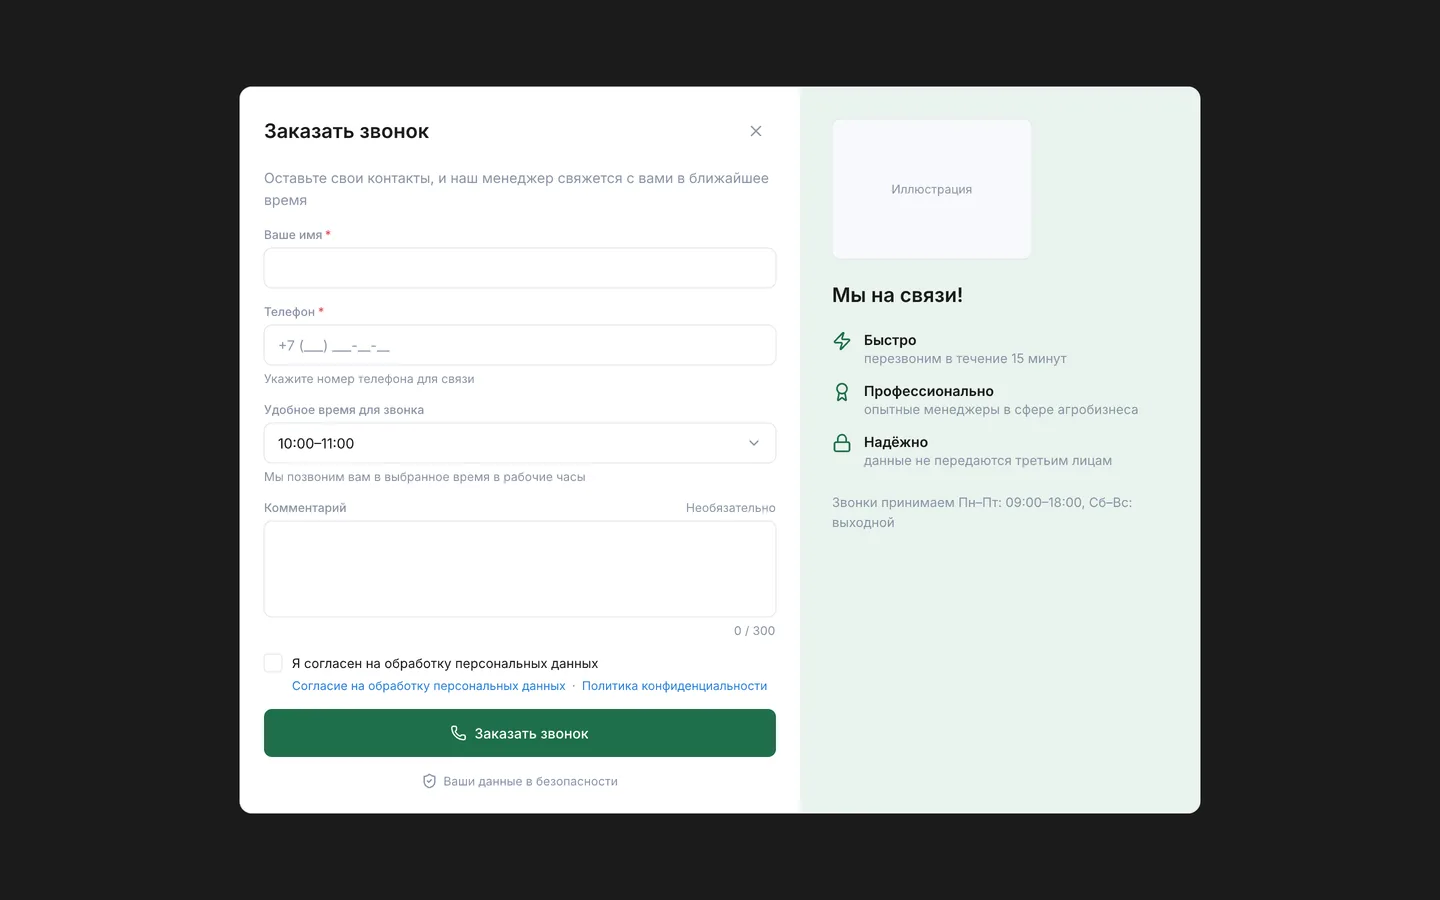
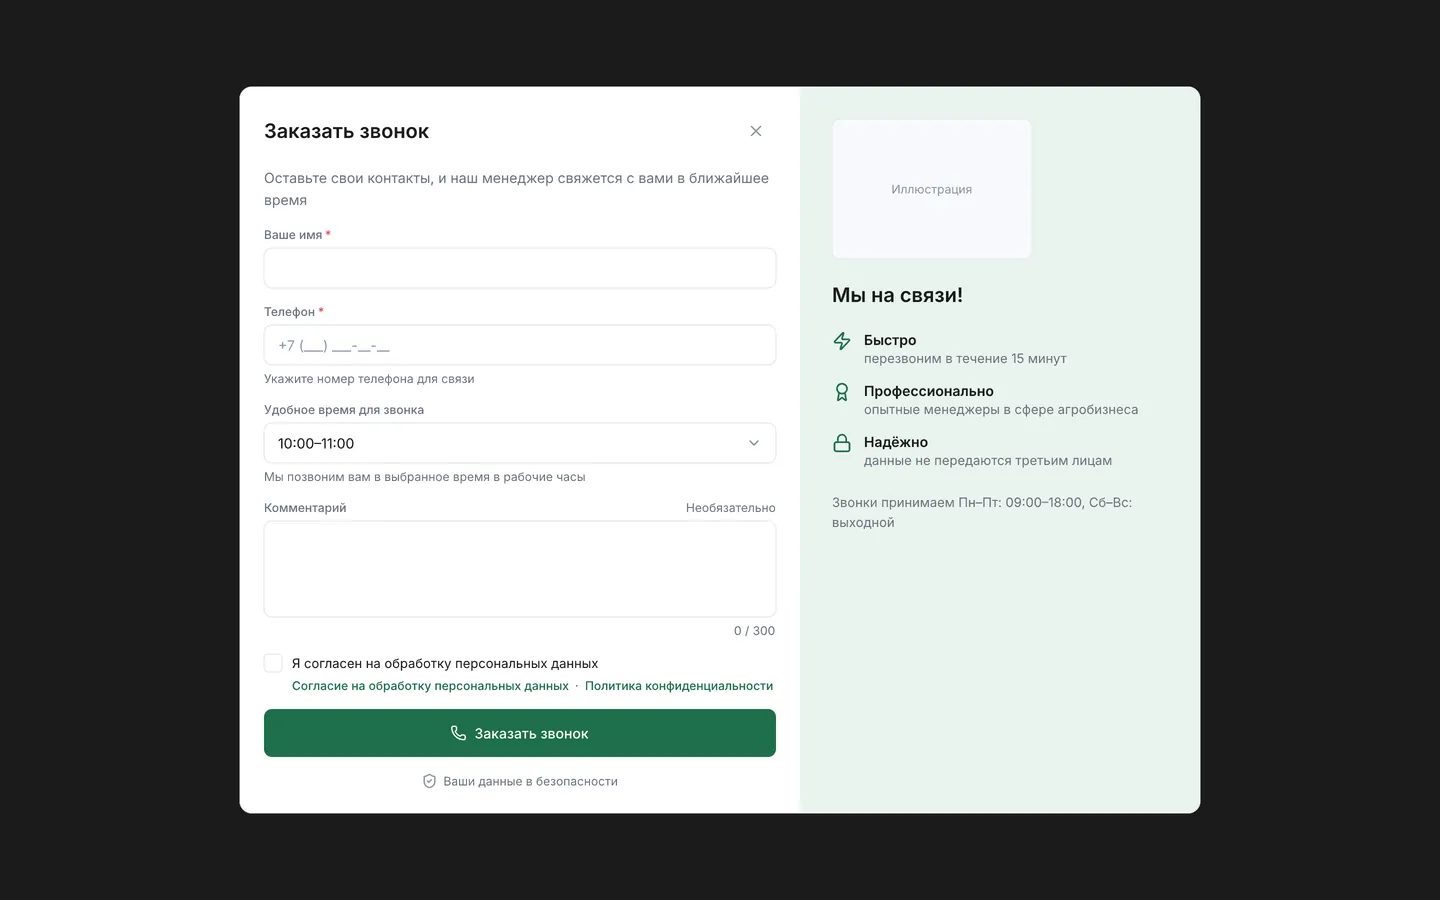
Ревизия главной по эскизам заказчика: панели секций, контурные иконки, зелёные ссылки, компактные сезонные ряды; витрина v1.5

Changed region(s): [[0.2188, 0.7467, 0.5312, 0.7778], [0.5938, 0.56, 0.625, 0.5911]]

diff --git a/docs/design-system/index.html b/docs/design-system/index.html
@@ -55,7 +55,7 @@
       <a href="../design-system/references.html">Референсы</a>
       <a href="../design-system/pages.html">Макеты</a>
       <a href="../progress/index.html">Ход работ</a>
-      <span class="version-chip">v1.4 · 05.09.2026</span>
+      <span class="version-chip">v1.5 · 07.09.2026</span>
     </nav>
   </div>
 </header>
@@ -90,7 +90,7 @@
       <div class="hero__meta">
         <span class="badge badge--success">Палитра и типографика согласованы</span>
         <span class="badge badge--tag">48 макетов разобрано</span>
-        <span class="badge badge--tag">Версия 1.4 · 05.09.2026</span>
+        <span class="badge badge--tag">Версия 1.5 · 07.09.2026</span>
       </div>
     </section>
 
@@ -105,13 +105,13 @@
       <div class="grid grid--3 grid--swatches">
         <div class="swatch"><div class="swatch__chip" style="background:#1F6F4A"></div><div class="swatch__body"><p class="swatch__role">Основной зелёный</p><p class="swatch__hex">#1F6F4A</p><p class="swatch__use">Кнопки действий, цены, статус «В наличии», ключевые B2B-действия</p></div></div>
         <div class="swatch"><div class="swatch__chip" style="background:#1C1C1C"></div><div class="swatch__body"><p class="swatch__role">Текст основной</p><p class="swatch__hex">#1C1C1C</p><p class="swatch__use">Заголовки, основной текст, данные таблиц</p></div></div>
-        <div class="swatch"><div class="swatch__chip" style="background:#8A94A6"></div><div class="swatch__body"><p class="swatch__role">Второстепенный текст</p><p class="swatch__hex">#8A94A6</p><p class="swatch__use">Коды 1С, подсказки, метаданные</p></div></div>
+        <div class="swatch"><div class="swatch__chip" style="background:#8A94A6"></div><div class="swatch__body"><p class="swatch__role">Второстепенный текст</p><p class="swatch__hex">#8A94A6</p><p class="swatch__use">Иконки второго плана, плейсхолдеры, разделители; читаемый текст 12–14 px — #6B7280, см. ниже</p></div></div>
         <div class="swatch"><div class="swatch__chip" style="background:#F7F9FC"></div><div class="swatch__body"><p class="swatch__role">Фон базовый</p><p class="swatch__hex">#F7F9FC</p><p class="swatch__use">Фон страниц, разделение блоков</p></div></div>
         <div class="swatch"><div class="swatch__chip" style="background:#FFFFFF;border-bottom:1px solid #E5E7EB"></div><div class="swatch__body"><p class="swatch__role">Поверхность</p><p class="swatch__hex">#FFFFFF</p><p class="swatch__use">Карточки, таблицы, поля ввода</p></div></div>
         <div class="swatch"><div class="swatch__chip" style="background:#E5E7EB"></div><div class="swatch__body"><p class="swatch__role">Границы</p><p class="swatch__hex">#E5E7EB</p><p class="swatch__use">Разделители, обводки, неактивные элементы</p></div></div>
         <div class="swatch"><div class="swatch__chip" style="background:#FFB020"></div><div class="swatch__body"><p class="swatch__role">Внимание</p><p class="swatch__hex">#FFB020</p><p class="swatch__use">МЗП, кратность, предупреждения</p></div></div>
         <div class="swatch"><div class="swatch__chip" style="background:#E5484D"></div><div class="swatch__body"><p class="swatch__role">Ошибка</p><p class="swatch__hex">#E5484D</p><p class="swatch__use">Ошибки заказа, невыполнимые условия</p></div></div>
-        <div class="swatch"><div class="swatch__chip" style="background:#2A80D9"></div><div class="swatch__body"><p class="swatch__role">Информационный</p><p class="swatch__hex">#2A80D9</p><p class="swatch__use">Ссылки, «Экспорт в Excel», навигация, теги</p></div></div>
+        <div class="swatch"><div class="swatch__chip" style="background:#2A80D9"></div><div class="swatch__body"><p class="swatch__role">Информационный</p><p class="swatch__hex">#2A80D9</p><p class="swatch__use">Информационные плашки и статусы, «Экспорт в Excel», маркер «Новинка». Текстовые ссылки — зелёные, как на макетах</p></div></div>
       </div>
 
       <h3>Производные оттенки</h3>
@@ -128,8 +128,12 @@
       </div>
 
       <h3>Читаемость мелкого текста</h3>
-      <p class="note">Жёлтый <code>#FFB020</code> на светлой подложке даёт контраст 1,8:1 — текст 12&nbsp;px в бейдже МЗП становится нечитаемым. Для текста и иконок внутри мягких подложек берутся затемнённые варианты. Согласованные цвета при этом не меняются: они остаются для заливок, обводок и крупных элементов.</p>
-      <div class="grid grid--3" style="margin-top:16px">
+      <p class="note">Жёлтый <code>#FFB020</code> на светлой подложке даёт контраст 1,8:1 — текст 12&nbsp;px в бейдже МЗП становится нечитаемым. Для текста и иконок внутри мягких подложек берутся затемнённые варианты. Согласованные цвета при этом не меняются: они остаются для заливок, обводок и крупных элементов. Та же проблема у серого <code>#8A94A6</code>: на белом он даёт 3,06:1, поэтому читаемый второстепенный текст 12–14&nbsp;px набирается серым <code>#6B7280</code> с эскиза заказчика, а <code>#8A94A6</code> остаётся иконкам, плейсхолдерам и разделителям.</p>
+      <div class="grid grid--4" style="margin-top:16px">
+        <div class="card">
+          <p class="row" style="color:var(--text-muted-ink);font-size:13px">Код 00-00020102 · от 10 уп. · В т.ч. НДС 20%</p>
+          <p class="swatch__hex" style="margin-top:12px">Текст #6B7280 · контраст 4,8:1</p>
+        </div>
         <div class="card">
           <p class="row"><span class="badge badge--warning"><svg><use href="#i-alert-triangle"/></svg>МЗП: 10 кг</span></p>
           <p class="swatch__hex" style="margin-top:12px">Текст #9A5B00 · контраст 6,4:1</p>
@@ -186,6 +190,8 @@
         <div class="card"><p class="swatch__role">Шаг сетки</p><p class="swatch__hex">4 px</p><p class="swatch__use">Отступы кратны четырём: 4 · 8 · 12 · 16 · 20 · 24 · 32 · 48 · 64.</p></div>
         <div class="card"><p class="swatch__role">Высоты</p><p class="swatch__hex">32 · 40 · 48 px</p><p class="swatch__use">Строка таблицы и степпер — 32, поле и кнопка — 40, главное действие — 48.</p></div>
         <div class="card"><p class="swatch__role">Тень</p><p class="swatch__hex">0 1 2 rgba(28,28,28,.06)</p><p class="swatch__use">Одна тень на выпадающие списки и поповеры. Карточки отделяются границей, а не тенью.</p></div>
+        <div class="card"><p class="swatch__role">Фон страницы</p><p class="swatch__hex">белый · панели #F7F9FC</p><p class="swatch__use">Страница белая, как на эскизах заказчика; блок, который нужно отделить, лежит на серой панели с радиусом 12 и полями 24, карточки внутри — без обводки. Каталог — исключение: серая страница, белые таблица и карточки.</p></div>
+        <div class="card"><p class="swatch__role">Иконка блока</p><p class="swatch__hex">32 px, без подложки</p><p class="swatch__use">Контурная зелёная иконка в плитках, полосах и сегментах. Квадрат 48 на светло-зелёном — только у блока «Нужна помощь?» и промо-панели окна звонка, круг 64 — у пустых состояний.</p></div>
       </div>
     </section>
 
@@ -499,7 +505,7 @@
             <span class="chip">Водорастворимое <svg><use href="#i-x"/></svg></span>
             <a href="#badges">Сбросить все</a>
           </div>
-          <p class="note">Выбранный фильтр — зелёная обводка и крестик. «Сбросить все» — текстовая ссылка синим, стоит последней в ряду.</p>
+          <p class="note">Выбранный фильтр — зелёная обводка и крестик. «Сбросить все» — текстовая ссылка зелёным, как все ссылки-действия на макетах, стоит последней в ряду.</p>
         </div>
 
         <div class="card">
@@ -921,7 +927,7 @@
       </figure>
       <figure class="ref">
         <a class="ref__frame" href="assets/frame/frame-footer-basic.webp" data-title="Преимущества и футер · базовый набор">
-          <img src="assets/frame/frame-footer-basic.webp" width="1440" height="620" loading="lazy" decoding="async" alt="Преимущества и футер · базовый набор">
+          <img src="assets/frame/frame-footer-basic.webp" width="1440" height="612" loading="lazy" decoding="async" alt="Преимущества и футер · базовый набор">
         </a>
         <figcaption>
           <p class="ref__title">Преимущества и футер · базовый набор</p>
@@ -930,7 +936,7 @@
       </figure>
       <figure class="ref">
         <a class="ref__frame" href="assets/frame/frame-footer-catalog.webp" data-title="Преимущества и футер · каталог и избранное">
-          <img src="assets/frame/frame-footer-catalog.webp" width="1440" height="620" loading="lazy" decoding="async" alt="Преимущества и футер · каталог и избранное">
+          <img src="assets/frame/frame-footer-catalog.webp" width="1440" height="604" loading="lazy" decoding="async" alt="Преимущества и футер · каталог и избранное">
         </a>
         <figcaption>
           <p class="ref__title">Преимущества и футер · каталог и избранное</p>
@@ -1080,7 +1086,7 @@
 
 <footer class="footer">
   <div class="container footer__inner">
-    <span>B2B-портал агробизнеса · b2bzakup.ru · дизайн-система v1.4 от 05.09.2026</span>
+    <span>B2B-портал агробизнеса · b2bzakup.ru · дизайн-система v1.5 от 07.09.2026</span>
     <span>Страница для согласования. Не для публичного распространения.</span>
   </div>
 </footer>

diff --git a/docs/design-system/pages.html b/docs/design-system/pages.html
@@ -57,15 +57,15 @@
       <p>Первый экран, условия для оптовых клиентов, категории, ассортиментные решения, сезонные подборки и бренды.</p>
     </div>
     <h3 id="home">Главная страница</h3>
-    <p class="note">Первый экран, условия для оптовых клиентов, категории, преимущества, ассортиментные решения, сезонные подборки, бренды.</p>
+    <p class="note">Первый экран, условия для оптовых клиентов, категории, преимущества, ассортиментные решения, сезонные подборки, бренды. Макет сверен с эскизом заказчика 07.09.2026.</p>
     <div class="ref-grid ref-grid--wide">
       <figure class="ref">
         <a class="ref__frame" href="assets/pages/home-1440.webp" data-title="Главная страница, десктоп">
-          <img src="assets/pages/home-1440.webp" width="1400" height="4073" loading="lazy" decoding="async" alt="Главная страница, десктоп">
+          <img src="assets/pages/home-1440.webp" width="1400" height="4092" loading="lazy" decoding="async" alt="Главная страница, десктоп">
         </a>
         <figcaption>
           <p class="ref__title">Главная страница, десктоп</p>
-          <p class="ref__note">Первый экран с тремя кнопками, условия для оптовых клиентов, восемь категорий каталога, преимущества, сегменты аудитории, готовые ассортиментные решения с подборкой и каруселью, сезонные подборки, бренды, два промо-блока, предфутерная полоса и подвал. Гость видит цены базового опта.</p>
+          <p class="ref__note">Первый экран с тремя кнопками, условия для оптовых клиентов, восемь категорий каталога, преимущества, сегменты аудитории, готовые ассортиментные решения с подборкой и каруселью, два сезонных ряда компактных карточек, бренды, два промо-блока, предфутерная полоса и подвал. Белая страница, отделяемые блоки — на серых панелях, как на макете. Гость видит цены базового опта.</p>
         </figcaption>
       </figure>
     </div>
@@ -73,11 +73,11 @@
     <div class="ref-grid ref-grid--phones">
       <figure class="ref">
         <a class="ref__frame" href="assets/pages/home-375.webp" data-title="Главная страница, телефон">
-          <img src="assets/pages/home-375.webp" width="428" height="8192" loading="lazy" decoding="async" alt="Главная страница, телефон">
+          <img src="assets/pages/home-375.webp" width="499" height="8192" loading="lazy" decoding="async" alt="Главная страница, телефон">
         </a>
         <figcaption>
           <p class="ref__title">Главная страница, телефон</p>
-          <p class="ref__note">Те же блоки в одну колонку: мобильная шапка, кнопки на всю ширину, списки вместо плиток, карусели и бренды прокручиваются по горизонтали, внизу нижняя панель навигации.</p>
+          <p class="ref__note">Те же блоки в одну колонку: мобильная шапка, кнопки на всю ширину, списки вместо плиток, карусели, сезонные ряды и бренды прокручиваются по горизонтали, внизу нижняя панель навигации.</p>
         </figcaption>
       </figure>
     </div>

diff --git a/docs/progress/index.html b/docs/progress/index.html
@@ -31,7 +31,7 @@
       <a href="../design-system/references.html">Референсы</a>
       <a href="../design-system/pages.html">Макеты</a>
       <a href="../progress/index.html" aria-current="page">Ход работ</a>
-      <span class="version-chip">Обновлено 05.09.2026</span>
+      <span class="version-chip">Обновлено 07.09.2026</span>
     </nav>
   </div>
 </header>
@@ -45,7 +45,7 @@
     <div class="hero__meta">
       <span class="badge badge--neutral">Готово 0 из 44 страниц</span>
       <span class="badge badge--success-outline">Макетов готово 5</span>
-      <span class="badge badge--tag">Обновлено 05.09.2026</span>
+      <span class="badge badge--tag">Обновлено 07.09.2026</span>
     </div>
     <div class="progressbar" role="img" aria-label="Готово 0 из 44 страниц"><span class="progressbar__fill" style="inline-size:0%"></span></div>
     <p class="row" style="margin-top:20px">
@@ -142,9 +142,9 @@
           <tr>
             <td>
               <p class="ref__title">Главная страница</p>
-              <p class="ref__note">Первый экран, условия для оптовых клиентов, категории, преимущества, ассортиментные решения, сезонные подборки, бренды.</p>
+              <p class="ref__note">Первый экран, условия для оптовых клиентов, категории, преимущества, ассортиментные решения, сезонные подборки, бренды. Макет сверен с эскизом заказчика 07.09.2026.</p>
             </td>
-            <td><span class="badge badge--success-outline">Макет готов</span><span class="mono" style="display:block;margin-top:6px;color:var(--text-muted);font-size:12px">с 05.09.2026</span></td>
+            <td><span class="badge badge--success-outline">Макет готов</span><span class="mono" style="display:block;margin-top:6px;color:var(--text-muted);font-size:12px">с 07.09.2026</span></td>
             <td><a href="https://b2bzakup-portal.github.io/b2b-site/design-system/pages.html#home">Макет →</a></td>
           </tr>
         </tbody>
@@ -623,7 +623,7 @@
 
 <footer class="footer">
   <div class="container footer__inner">
-    <span>B2B-портал агробизнеса · b2bzakup.ru · ход работ на 05.09.2026</span>
+    <span>B2B-портал агробизнеса · b2bzakup.ru · ход работ на 07.09.2026</span>
     <span>Страница для согласования. Не для публичного распространения.</span>
   </div>
 </footer>

diff --git a/docs/design-system/assets/site.css b/docs/design-system/assets/site.css
@@ -11,6 +11,7 @@
   --primary: #1f6f4a;
   --text: #1c1c1c;
   --text-muted: #8a94a6;
+  --text-muted-ink: #6b7280;
   --bg: #f7f9fc;
   --surface: #ffffff;
   --border: #e5e7eb;
@@ -92,7 +93,8 @@ ul, ol {
 }
 
 a {
-  color: var(--info);
+  color: var(--primary);
+  font-weight: 500;
   text-decoration: none;
 }
 

diff --git a/docs/progress/assets/site.css b/docs/progress/assets/site.css
@@ -11,6 +11,7 @@
   --primary: #1f6f4a;
   --text: #1c1c1c;
   --text-muted: #8a94a6;
+  --text-muted-ink: #6b7280;
   --bg: #f7f9fc;
   --surface: #ffffff;
   --border: #e5e7eb;
@@ -92,7 +93,8 @@ ul, ol {
 }
 
 a {
-  color: var(--info);
+  color: var(--primary);
+  font-weight: 500;
   text-decoration: none;
 }
 
